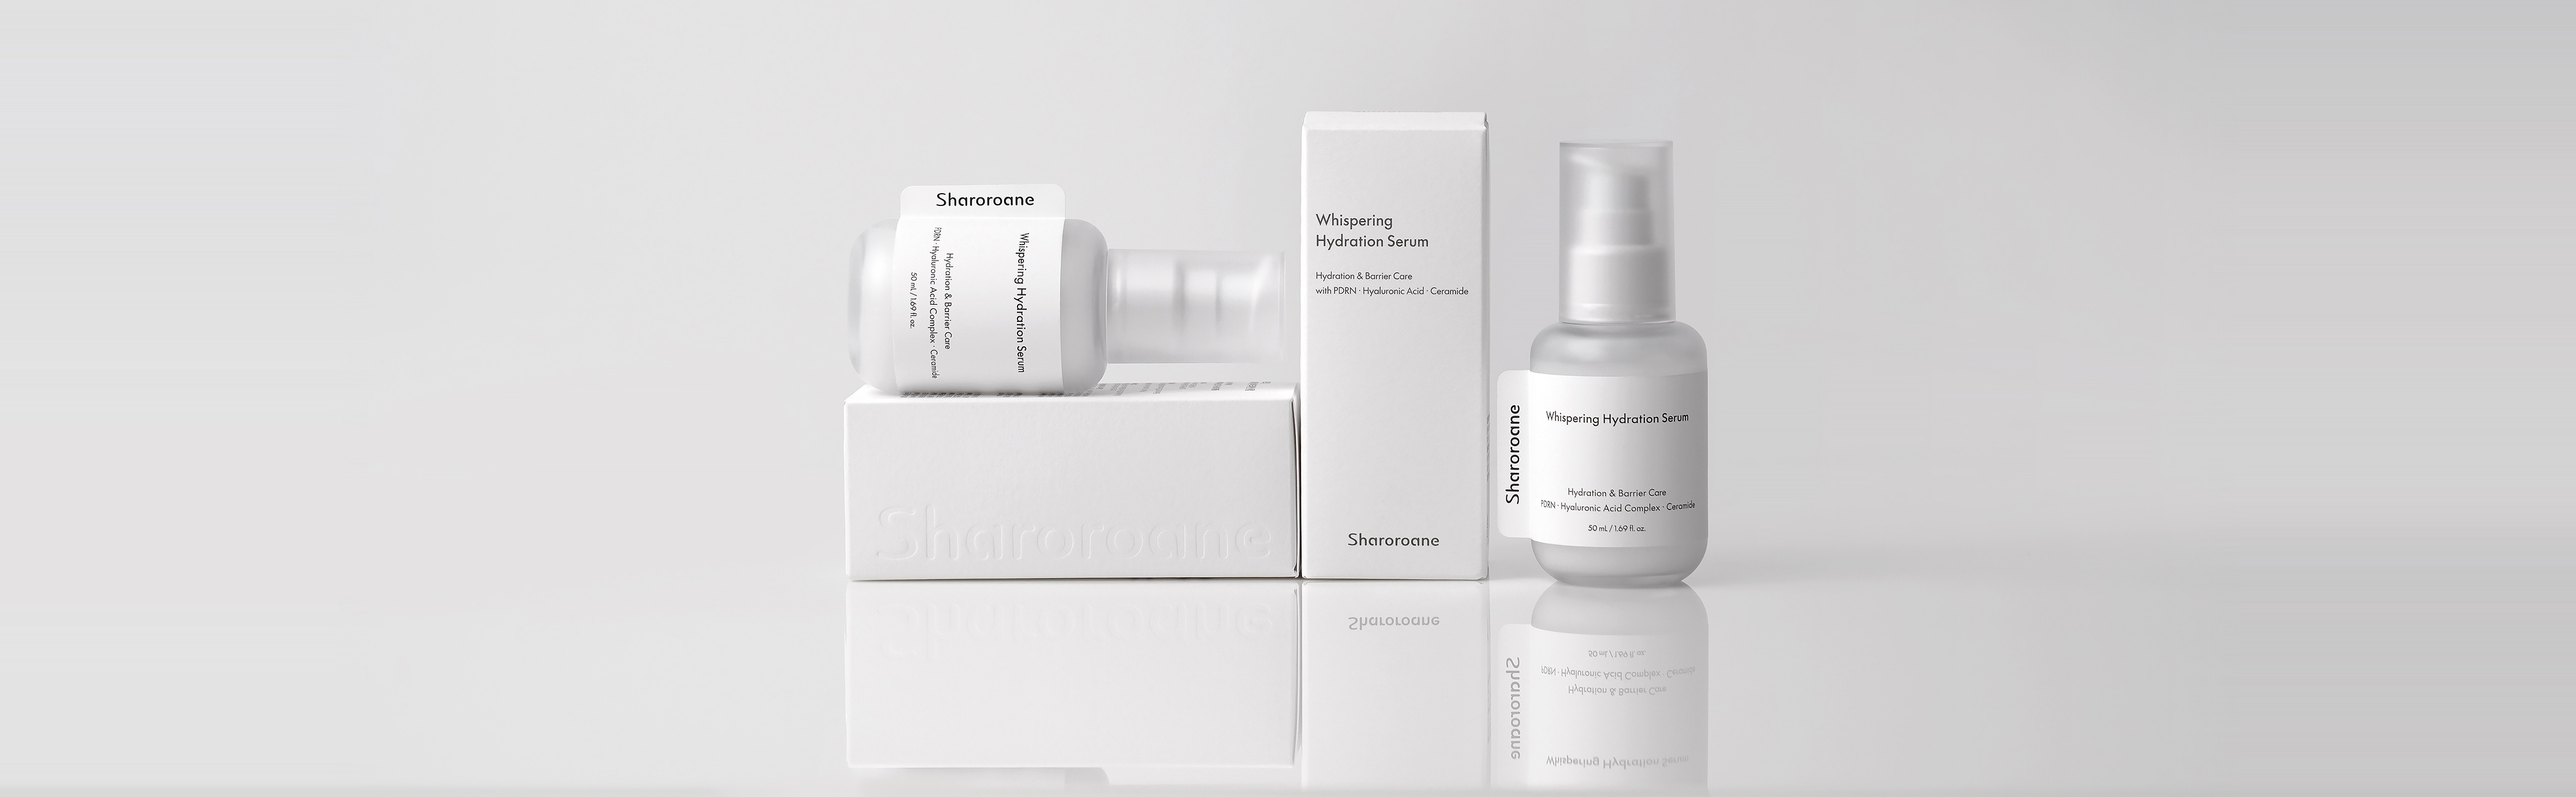
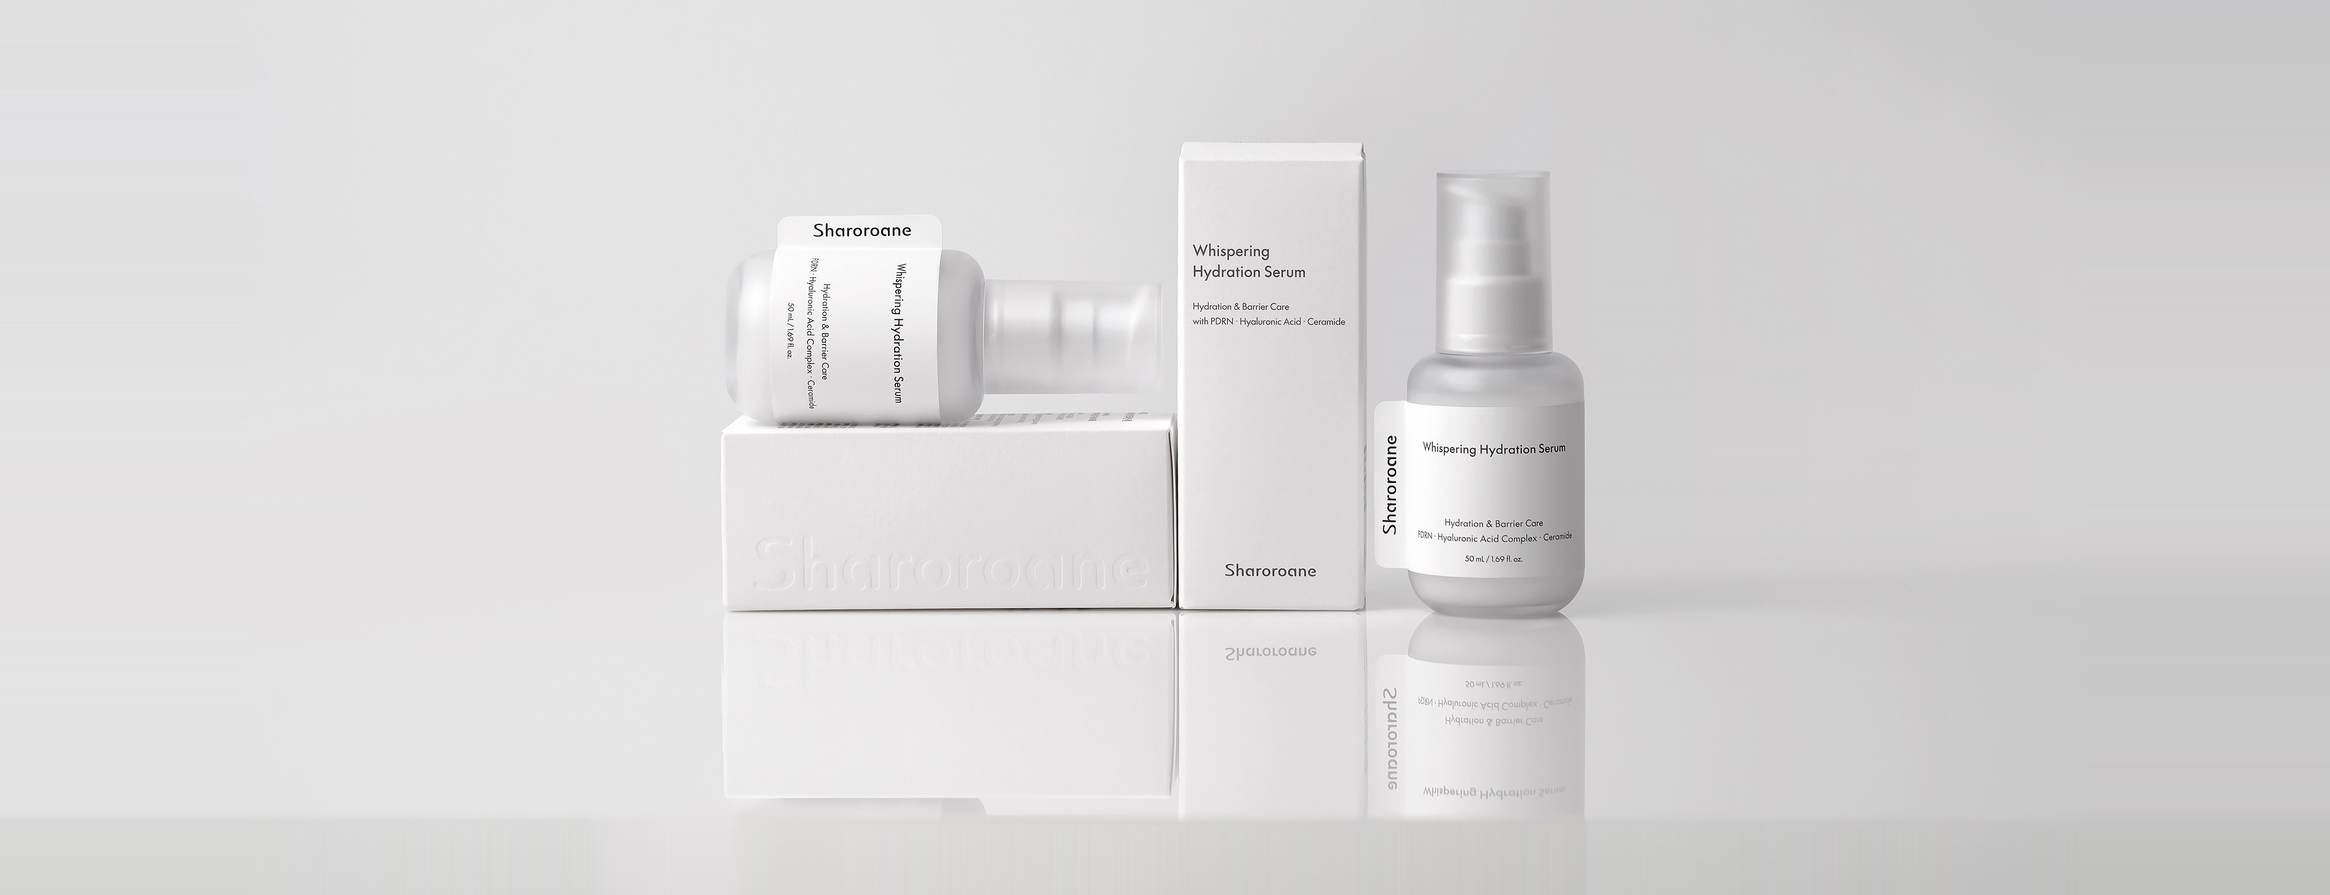
fix(hero): optimize hero image margins and use responsive no-crop aspect ratio across all zoom levels

diff --git a/index.html b/index.html
@@ -123,11 +123,11 @@
   <main id="home">
     
     <!-- ==================== 1. HERO SECTION (DEEPONDE STYLE FULL-WIDTH SLIM PANORAMA) ==================== -->
-    <section class="w-full overflow-hidden border-b border-brand-border/40">
+    <section class="w-full overflow-hidden border-b border-brand-border/40 bg-[#E2E2E2]">
       <img 
         src="assets/images/hero-package.jpg" 
         alt="샤로로앙 위스퍼링 하이드레이션 세럼 패키지" 
-        class="w-full h-[380px] sm:h-[460px] md:h-[520px] lg:h-[560px] object-cover object-center transition-transform duration-1000 hover:scale-[1.01]"
+        class="w-full h-auto block object-contain object-center transition-transform duration-1000 hover:scale-[1.01]"
       >
     </section>
 
